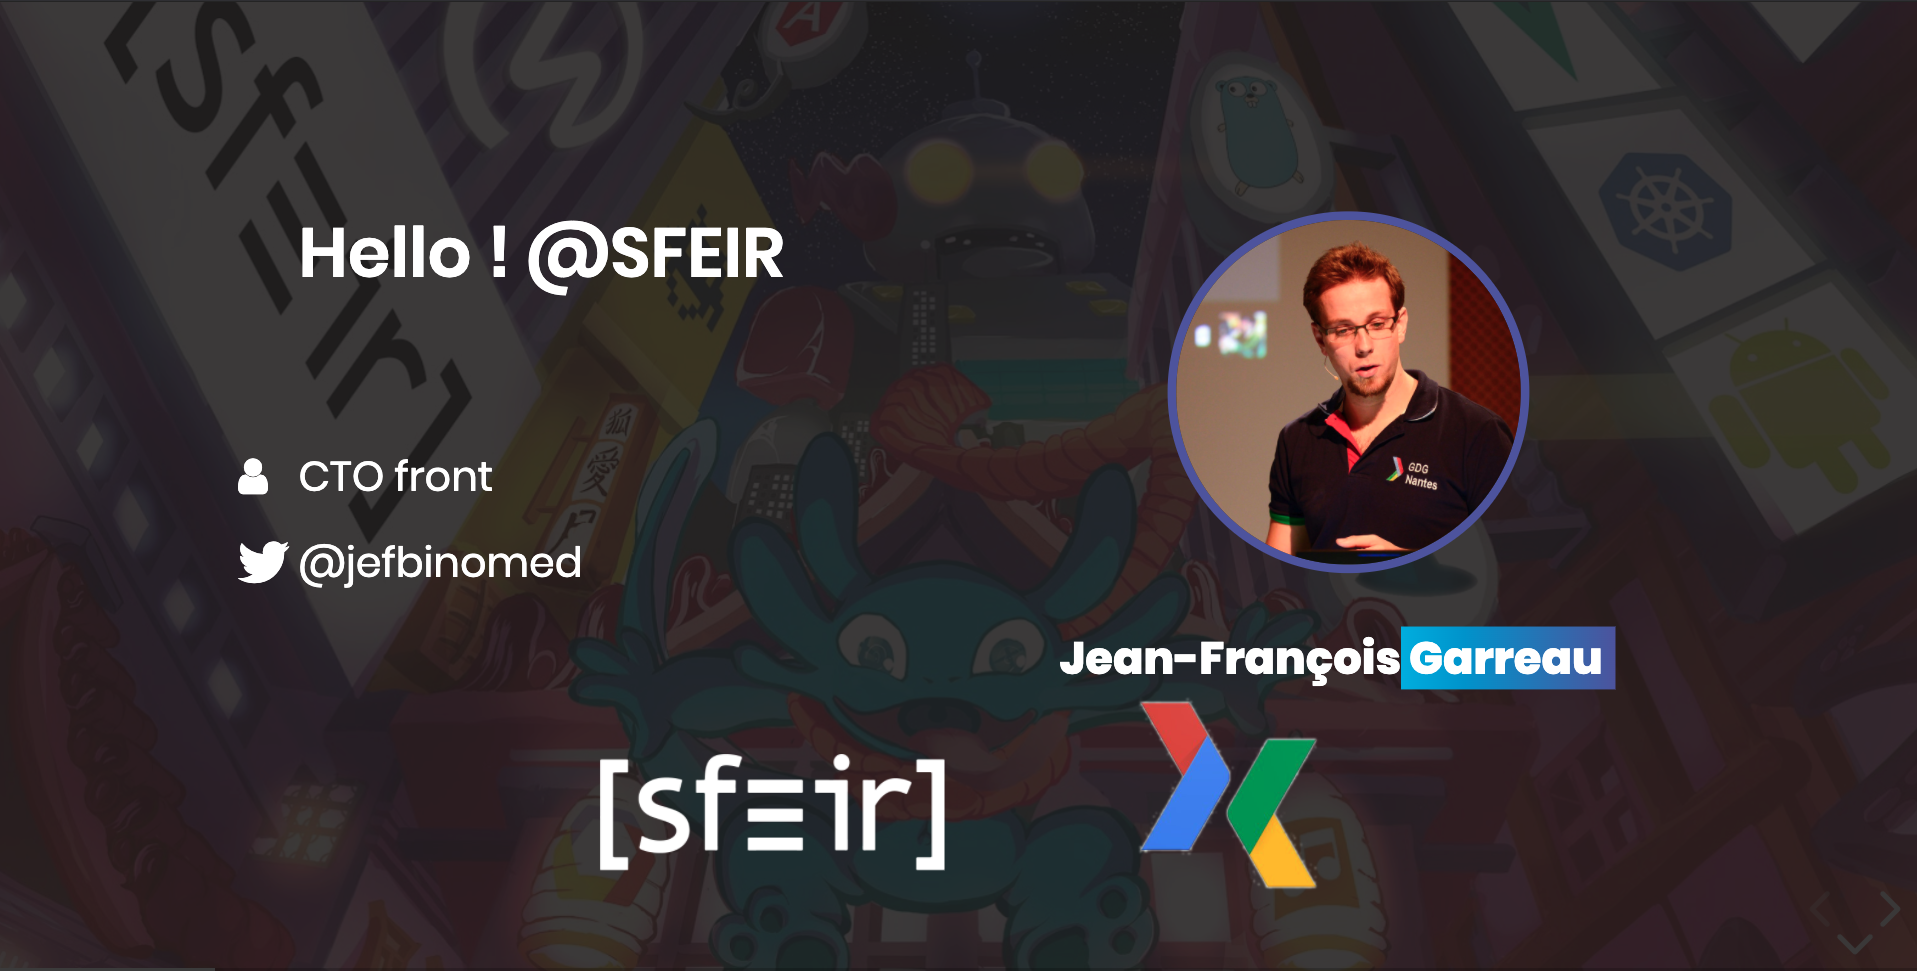
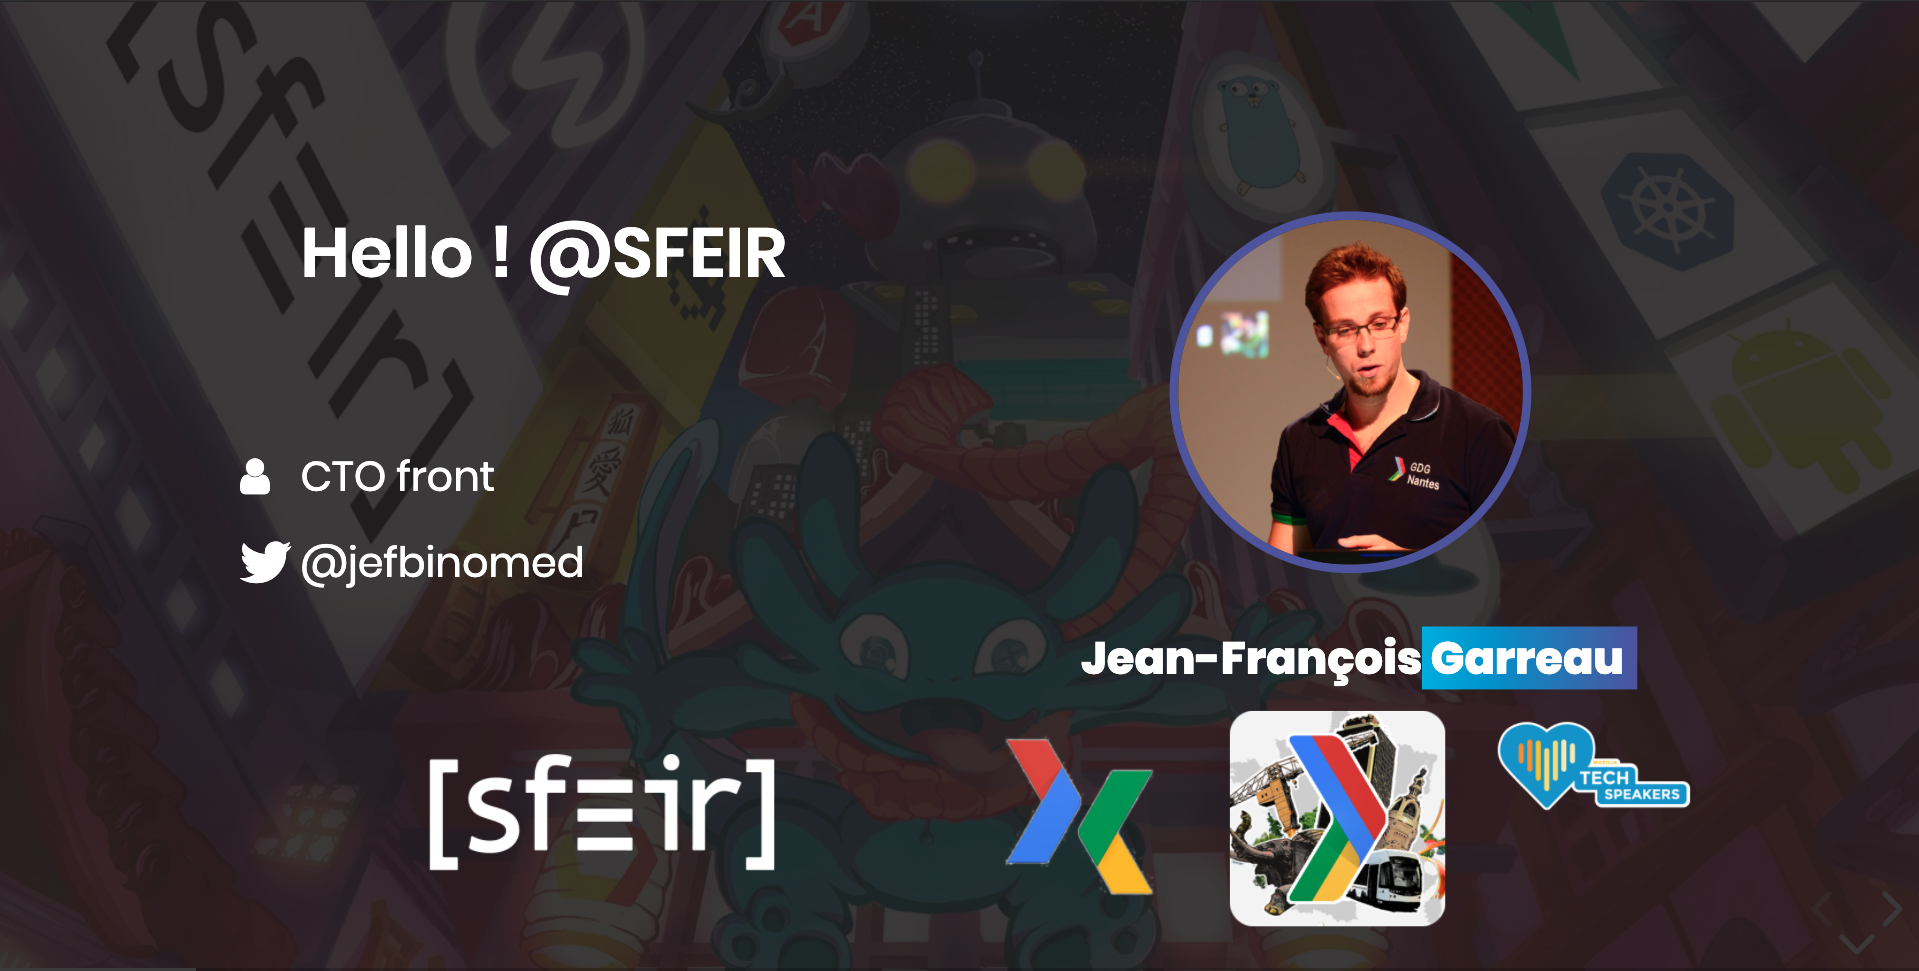
feat(badges) finalize multiples badges

diff --git a/demo/md/01_speaker.md b/demo/md/01_speaker.md
@@ -35,9 +35,9 @@
 
 ![speaker](./assets/images/jf.jpg)
 ![company](./assets/images/logo-sfeir-blanc.png)
-![badge](./assets/images/gde.png)
-![badge](./assets/images/GDG-Logo-carre.png)
-![badge](./assets/images/mts.png)
+![badge first-badge](./assets/images/gde.png)
+![badge second-badge](./assets/images/GDG-Logo-carre.png)
+![badge third-badge](./assets/images/mts.png)
 
 <h2>Jean-François<span> Garreau</span></h2>
 
@@ -57,9 +57,9 @@
 
 ![speaker](./assets/images/jf.jpg)
 ![company](./assets/images/logo-sfeir-blanc.png)
-![badge](./assets/images/gde.png)
-![badge](./assets/images/GDG-Logo-carre.png)
-![badge](./assets/images/mts.png)
+![badge first-badge](./assets/images/gde.png)
+![badge second-badge](./assets/images/GDG-Logo-carre.png)
+![badge third-badge](./assets/images/mts.png)
 
 <h2>Jean-François<span> Garreau</span></h2>
 
@@ -82,9 +82,9 @@
 
 ![speaker](./assets/images/jf.jpg)
 ![company](./assets/images/logo-sfeir-blanc.png)
-![badge](./assets/images/gde.png)
-![badge](./assets/images/GDG-Logo-carre.png)
-![badge](./assets/images/mts.png)
+![badge first-badge](./assets/images/gde.png)
+![badge second-badge](./assets/images/GDG-Logo-carre.png)
+![badge third-badge](./assets/images/mts.png)
 
 <h2>Jean-François<span> Garreau</span></h2>
 
@@ -104,9 +104,9 @@
 
 ![speaker](./assets/images/jf.jpg)
 ![company](./assets/images/logo-sfeir-blanc.png)
-![badge](./assets/images/gde.png)
-![badge](./assets/images/GDG-Logo-carre.png)
-![badge](./assets/images/mts.png)
+![badge first-badge](./assets/images/gde.png)
+![badge second-badge](./assets/images/GDG-Logo-carre.png)
+![badge third-badge](./assets/images/mts.png)
 
 <h2>Jean-François<span> Garreau</span></h2>
 
@@ -129,9 +129,9 @@
 
 ![speaker](./assets/images/jf.jpg)
 ![company](./assets/images/logo-sfeir-blanc.png)
-![badge](./assets/images/gde.png)
-![badge](./assets/images/GDG-Logo-carre.png)
-![badge](./assets/images/mts.png)
+![badge first-badge](./assets/images/gde.png)
+![badge second-badge](./assets/images/GDG-Logo-carre.png)
+![badge third-badge](./assets/images/mts.png)
 
 <h2>Jean-François<span> Garreau</span></h2>
 

diff --git a/README.md b/README.md
@@ -119,7 +119,9 @@ This theme use target for [RevealJS](https://revealjs.com/#/) so all you can do 
 
 ![speaker](./assets/images/jf.jpg)
 ![company](./assets/images/logo_sfeir_bleu_orange.png)
-![badge](./assets/images/gde.png)
+![badge first-badge](./assets/images/gde.png)
+![badge second-badge](./assets/images/GDG-Logo-carre.png)
+![badge third-badge](./assets/images/mts.png)
 
 <h2> Jean-François<span> Garreau</span></h2>
 
@@ -150,6 +152,8 @@ OR
 You can also change the order of sub information (here CTO Front & @jefbinomed). You can set up to 4 sub informations : `icon-first` | `icon-second` | `icon-third`.
 
 For the moment, only 3 icons are registered for speaker slide : `icon-rule` (for the job) | `icon-twitter` for twitter | `icon-mail` for the mail
+
+You can also change the number of badge (one -> three) `first-badge` | `second-badge` | `third-badge`
 
 ### Transitions slides
 
